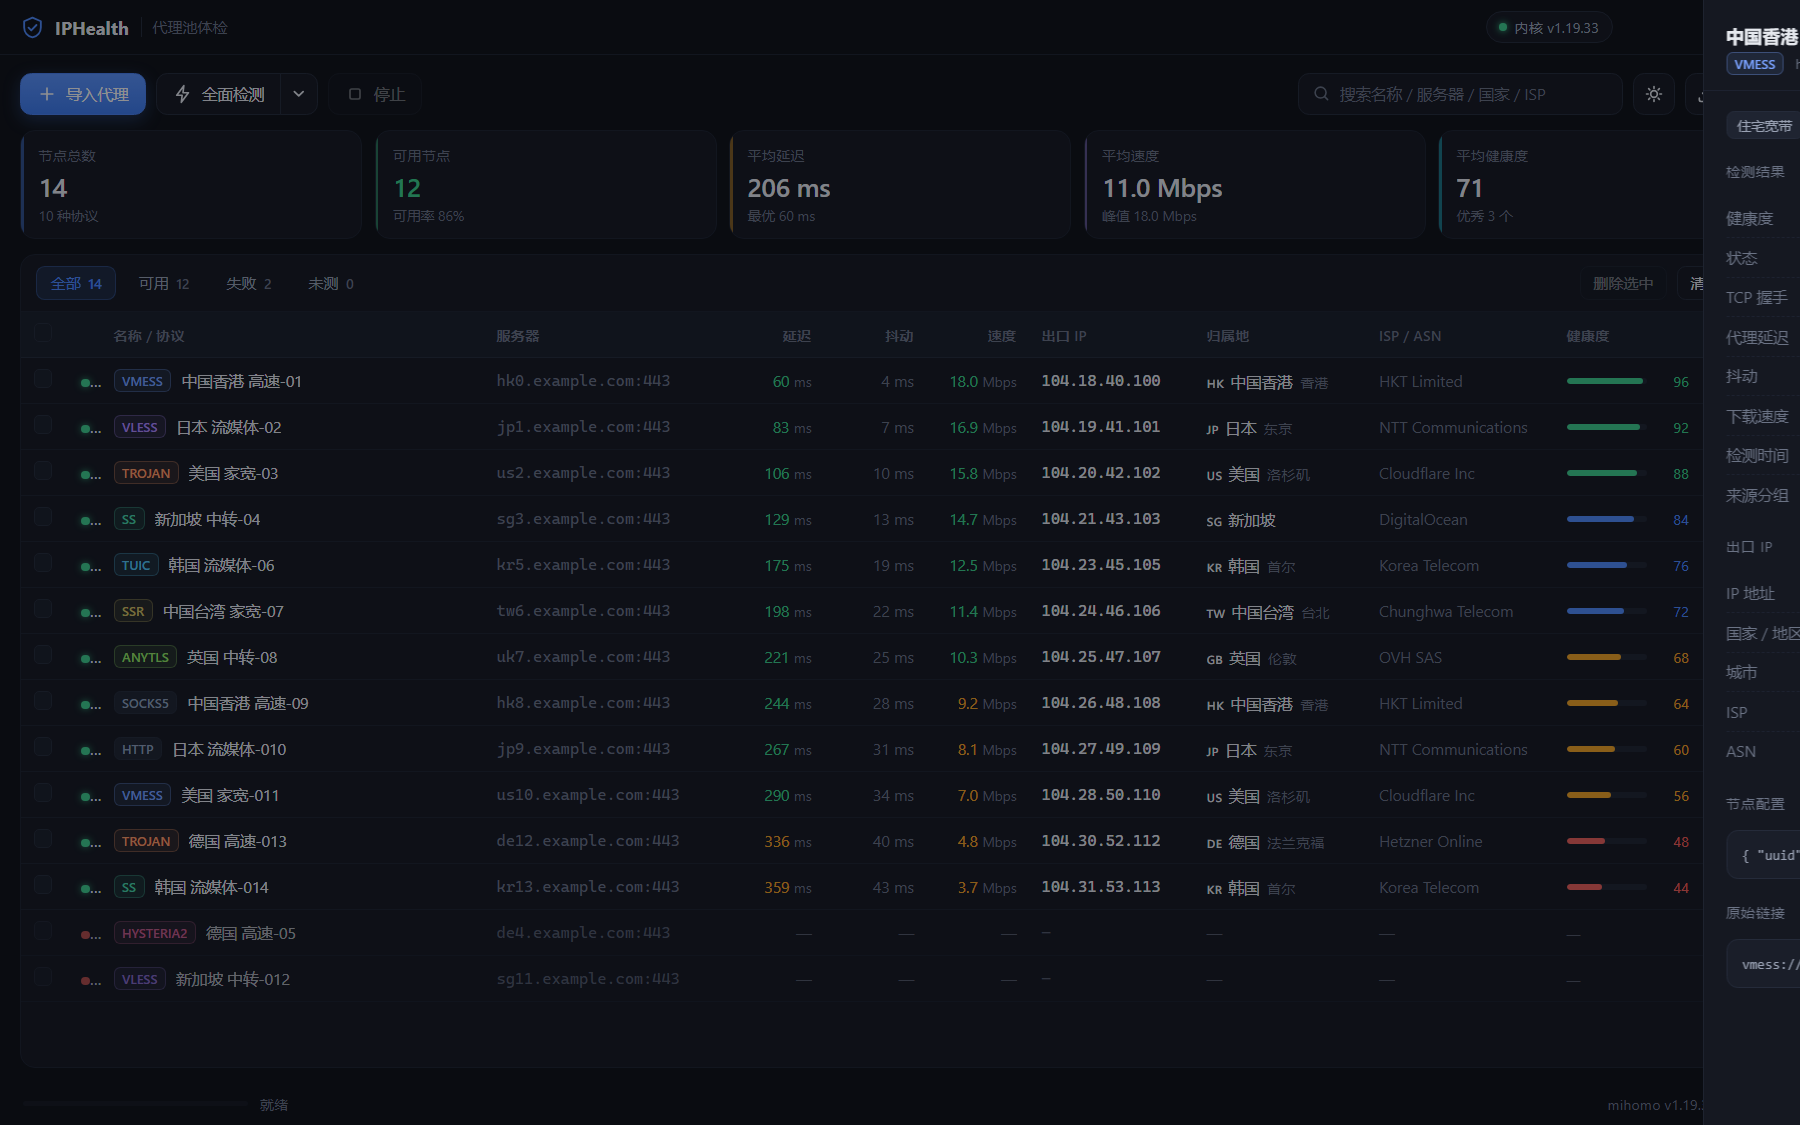
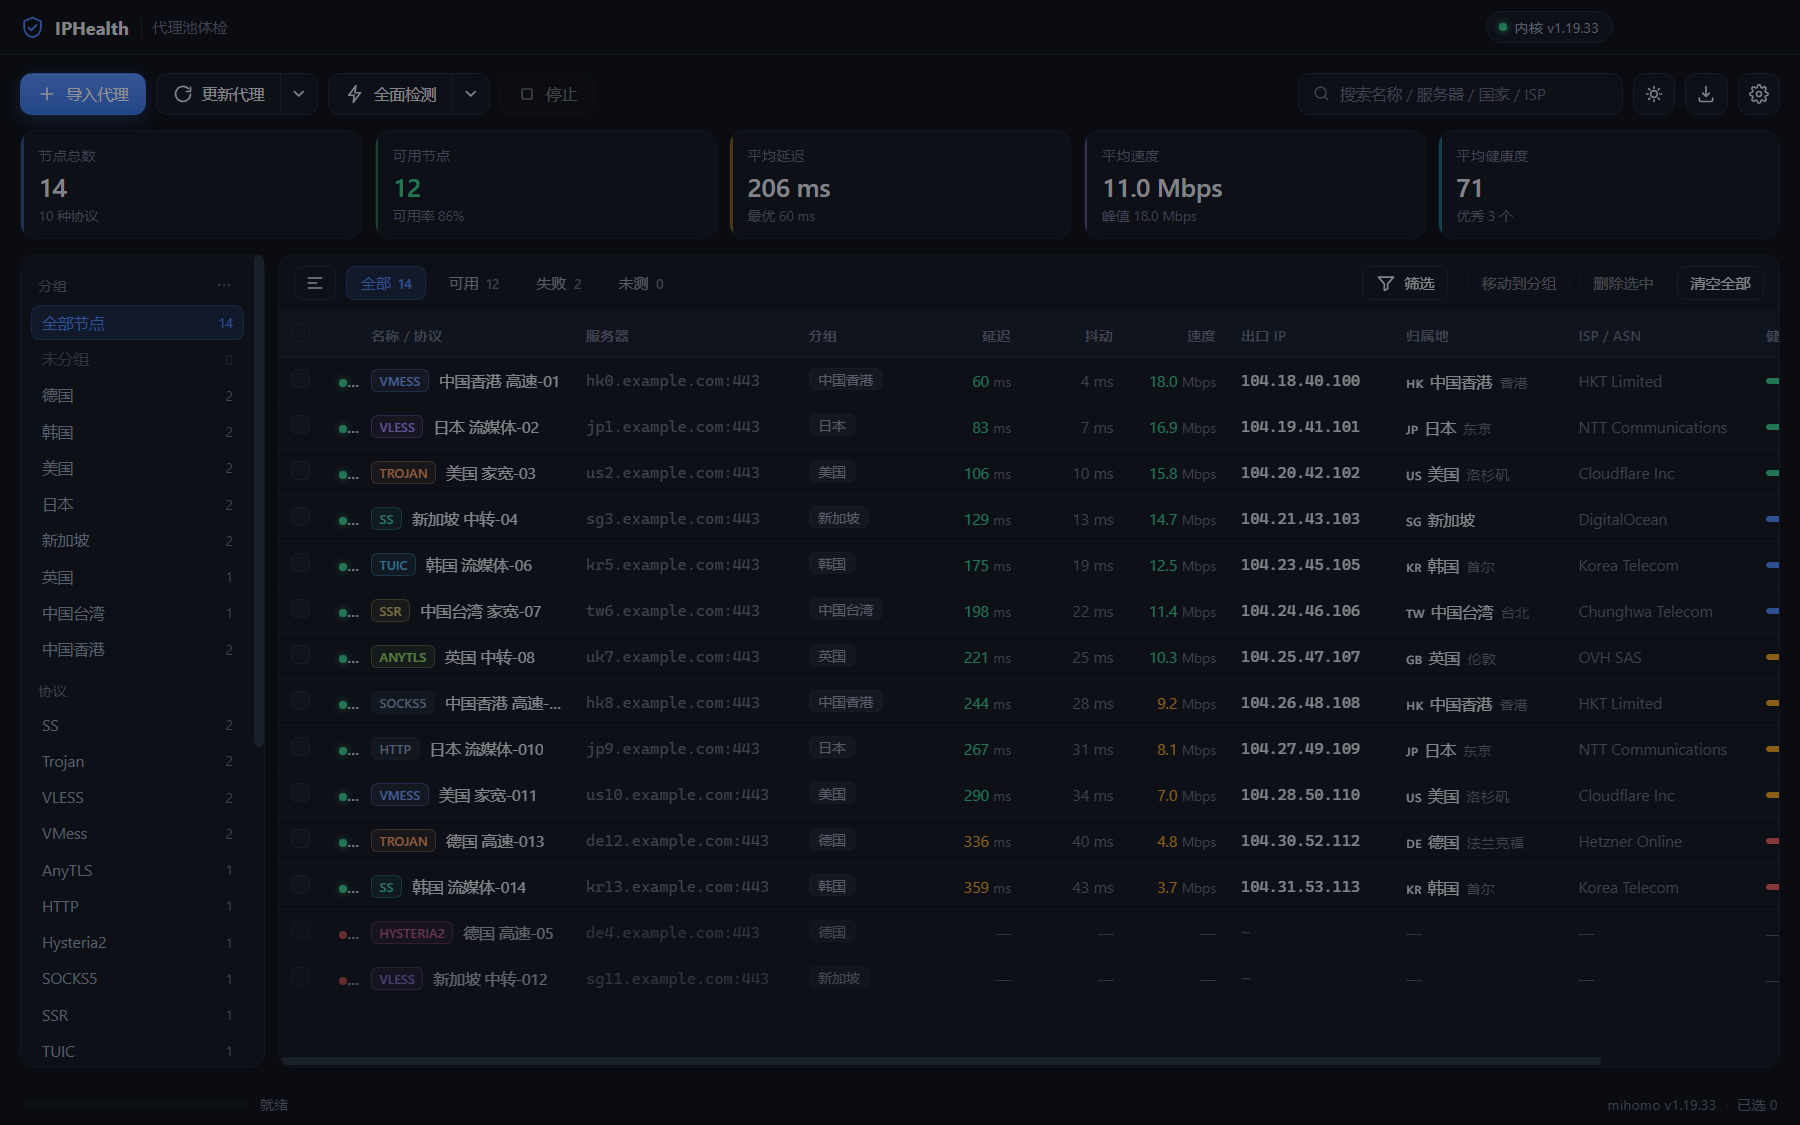
docs: 更新 1.0.3 界面截图（来源分面 / 导出面板）

diff --git a/scripts/shot.js b/scripts/shot.js
@@ -31,6 +31,7 @@ for (let i = 0; i < 14; i += 1) {
     conf: { uuid: 'b831381d', tls: true },
     raw: `${t}://example`,
     group: [c[0]][0],
+    source: i < 6 ? 'https://sub.example.com/api/v1/client/subscribe?token=8f3ac1' : i < 11 ? 'https://airport.example.net/api/v1/client/subscribe?token=xx91k2' : '',
     enabled: true,
     tcp: ok ? 40 + i * 7 : null,
     latency: ok ? 60 + i * 23 : null,
@@ -135,6 +136,12 @@ app.whenReady().then(async () => {
   await new Promise((r) => setTimeout(r, 800));
   fs.writeFileSync(path.join(__dirname, '..', '.shots', 'drawer.png'), (await win.capturePage()).toPNG());
   console.log('saved drawer.png');
+
+  // 导出弹窗
+  await win.webContents.executeJavaScript("document.querySelector('#drawerClose').click(); document.querySelector('#btnExport').click();");
+  await new Promise((r) => setTimeout(r, 600));
+  fs.writeFileSync(path.join(__dirname, '..', '.shots', 'export.png'), (await win.capturePage()).toPNG());
+  console.log('saved export.png');
 
   app.quit();
 });

diff --git a/README.md b/README.md
@@ -8,7 +8,7 @@
 ![主界面](docs/screenshot.png)
 
 <details>
-<summary>导入面板 / 筛选面板 / 订阅源管理 / 节点详情</summary>
+<summary>导入面板 / 筛选面板 / 订阅源管理 / 节点详情 / 导出</summary>
 
 ![导入面板](docs/screenshot-import.png)
 
@@ -17,6 +17,8 @@
 ![订阅源管理](docs/screenshot-sources.png)
 
 ![节点详情](docs/screenshot-detail.png)
+
+![导出](docs/screenshot-export.png)
 
 </details>
 
